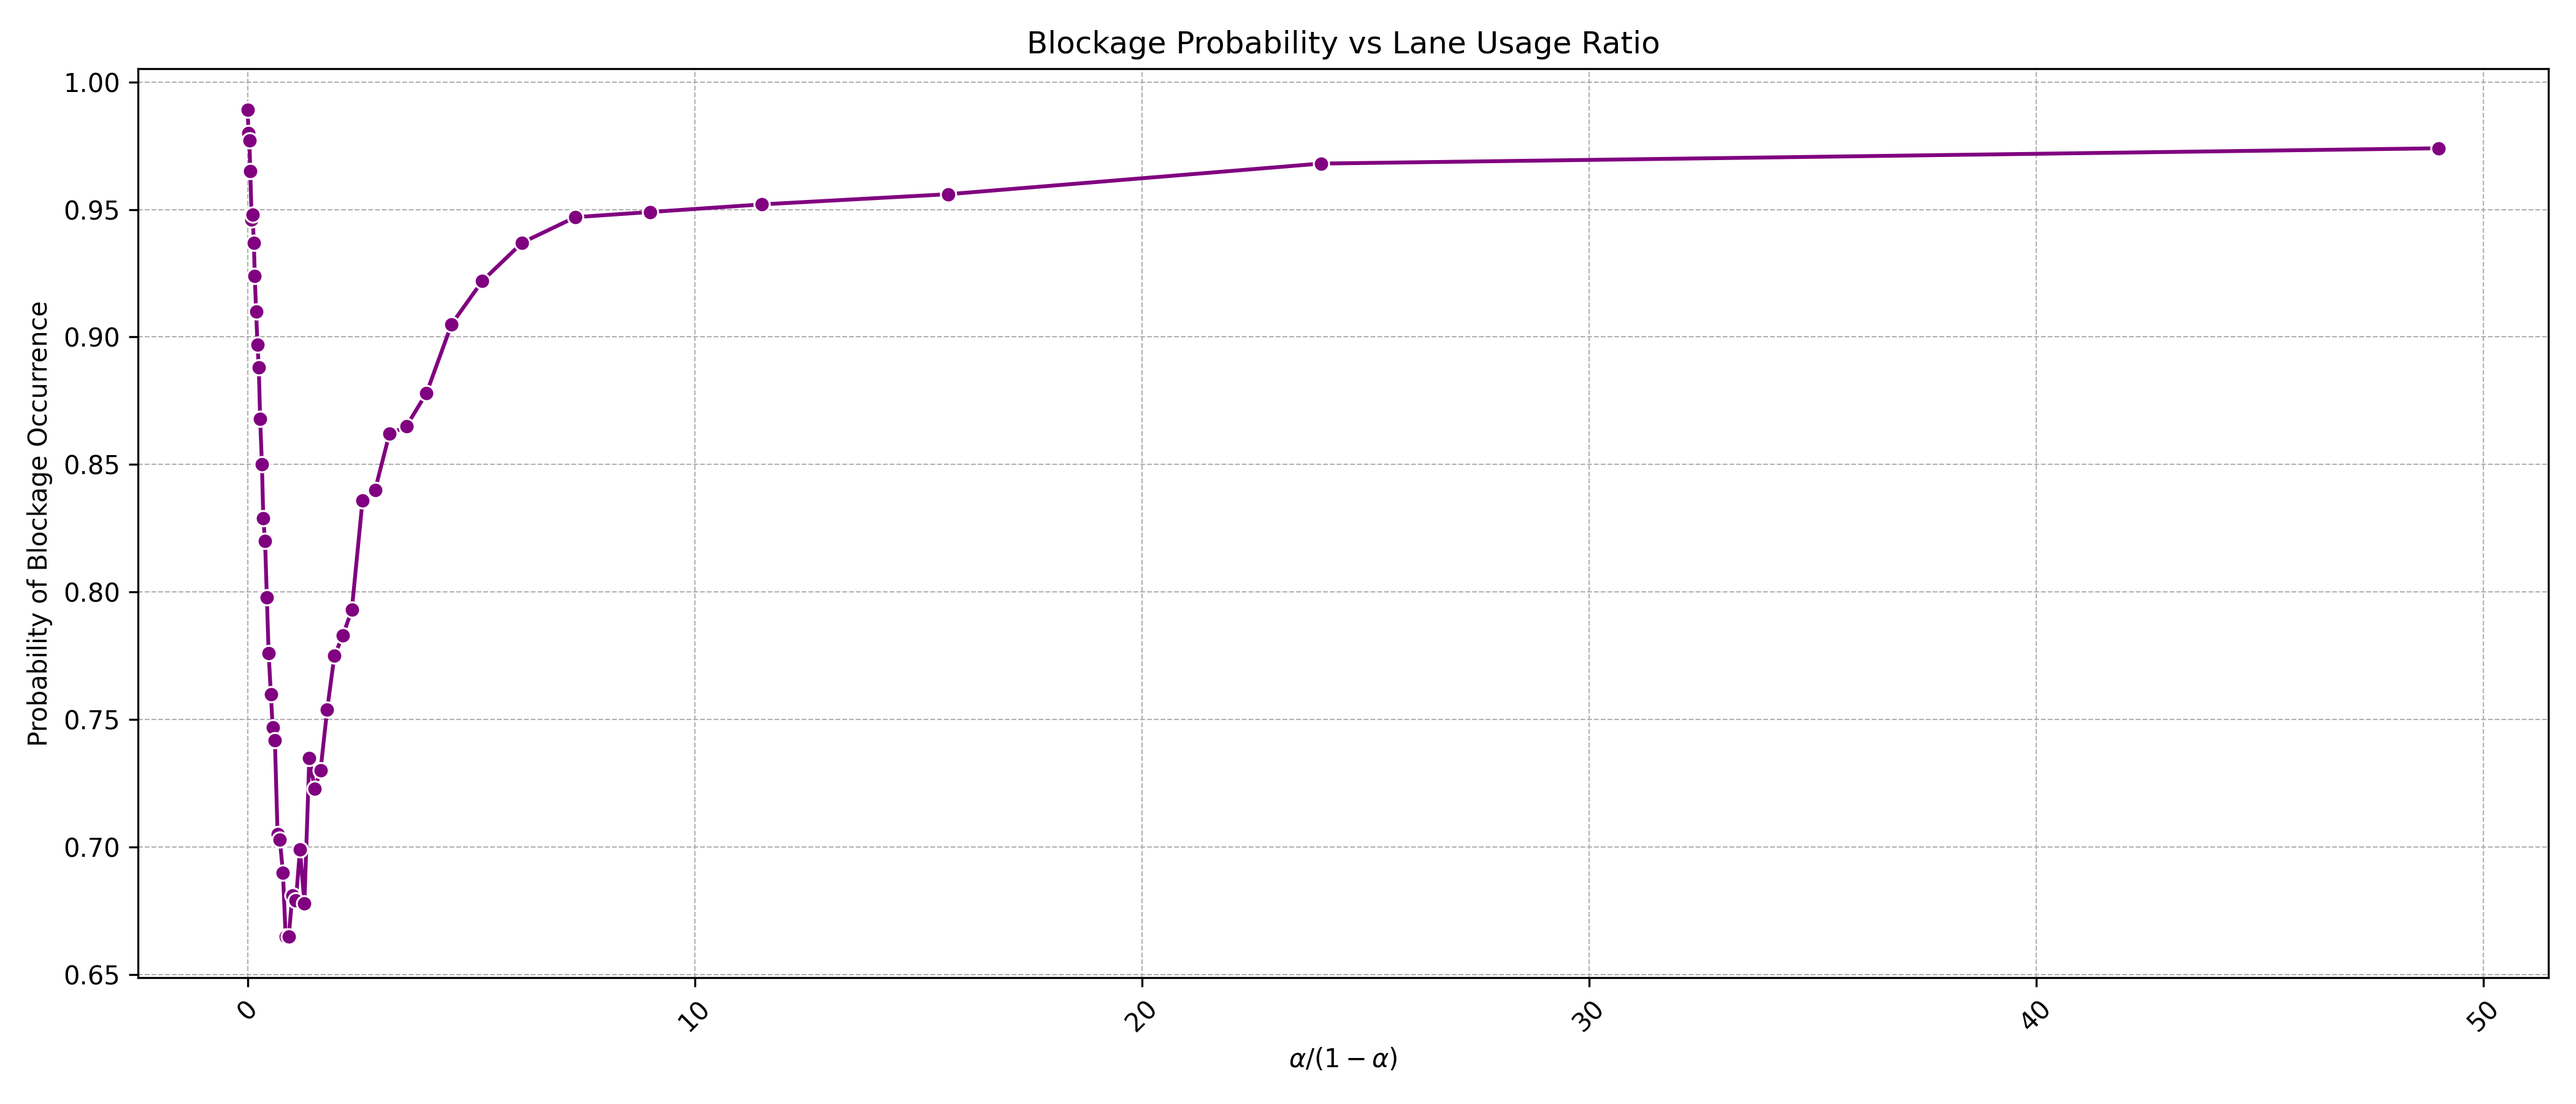
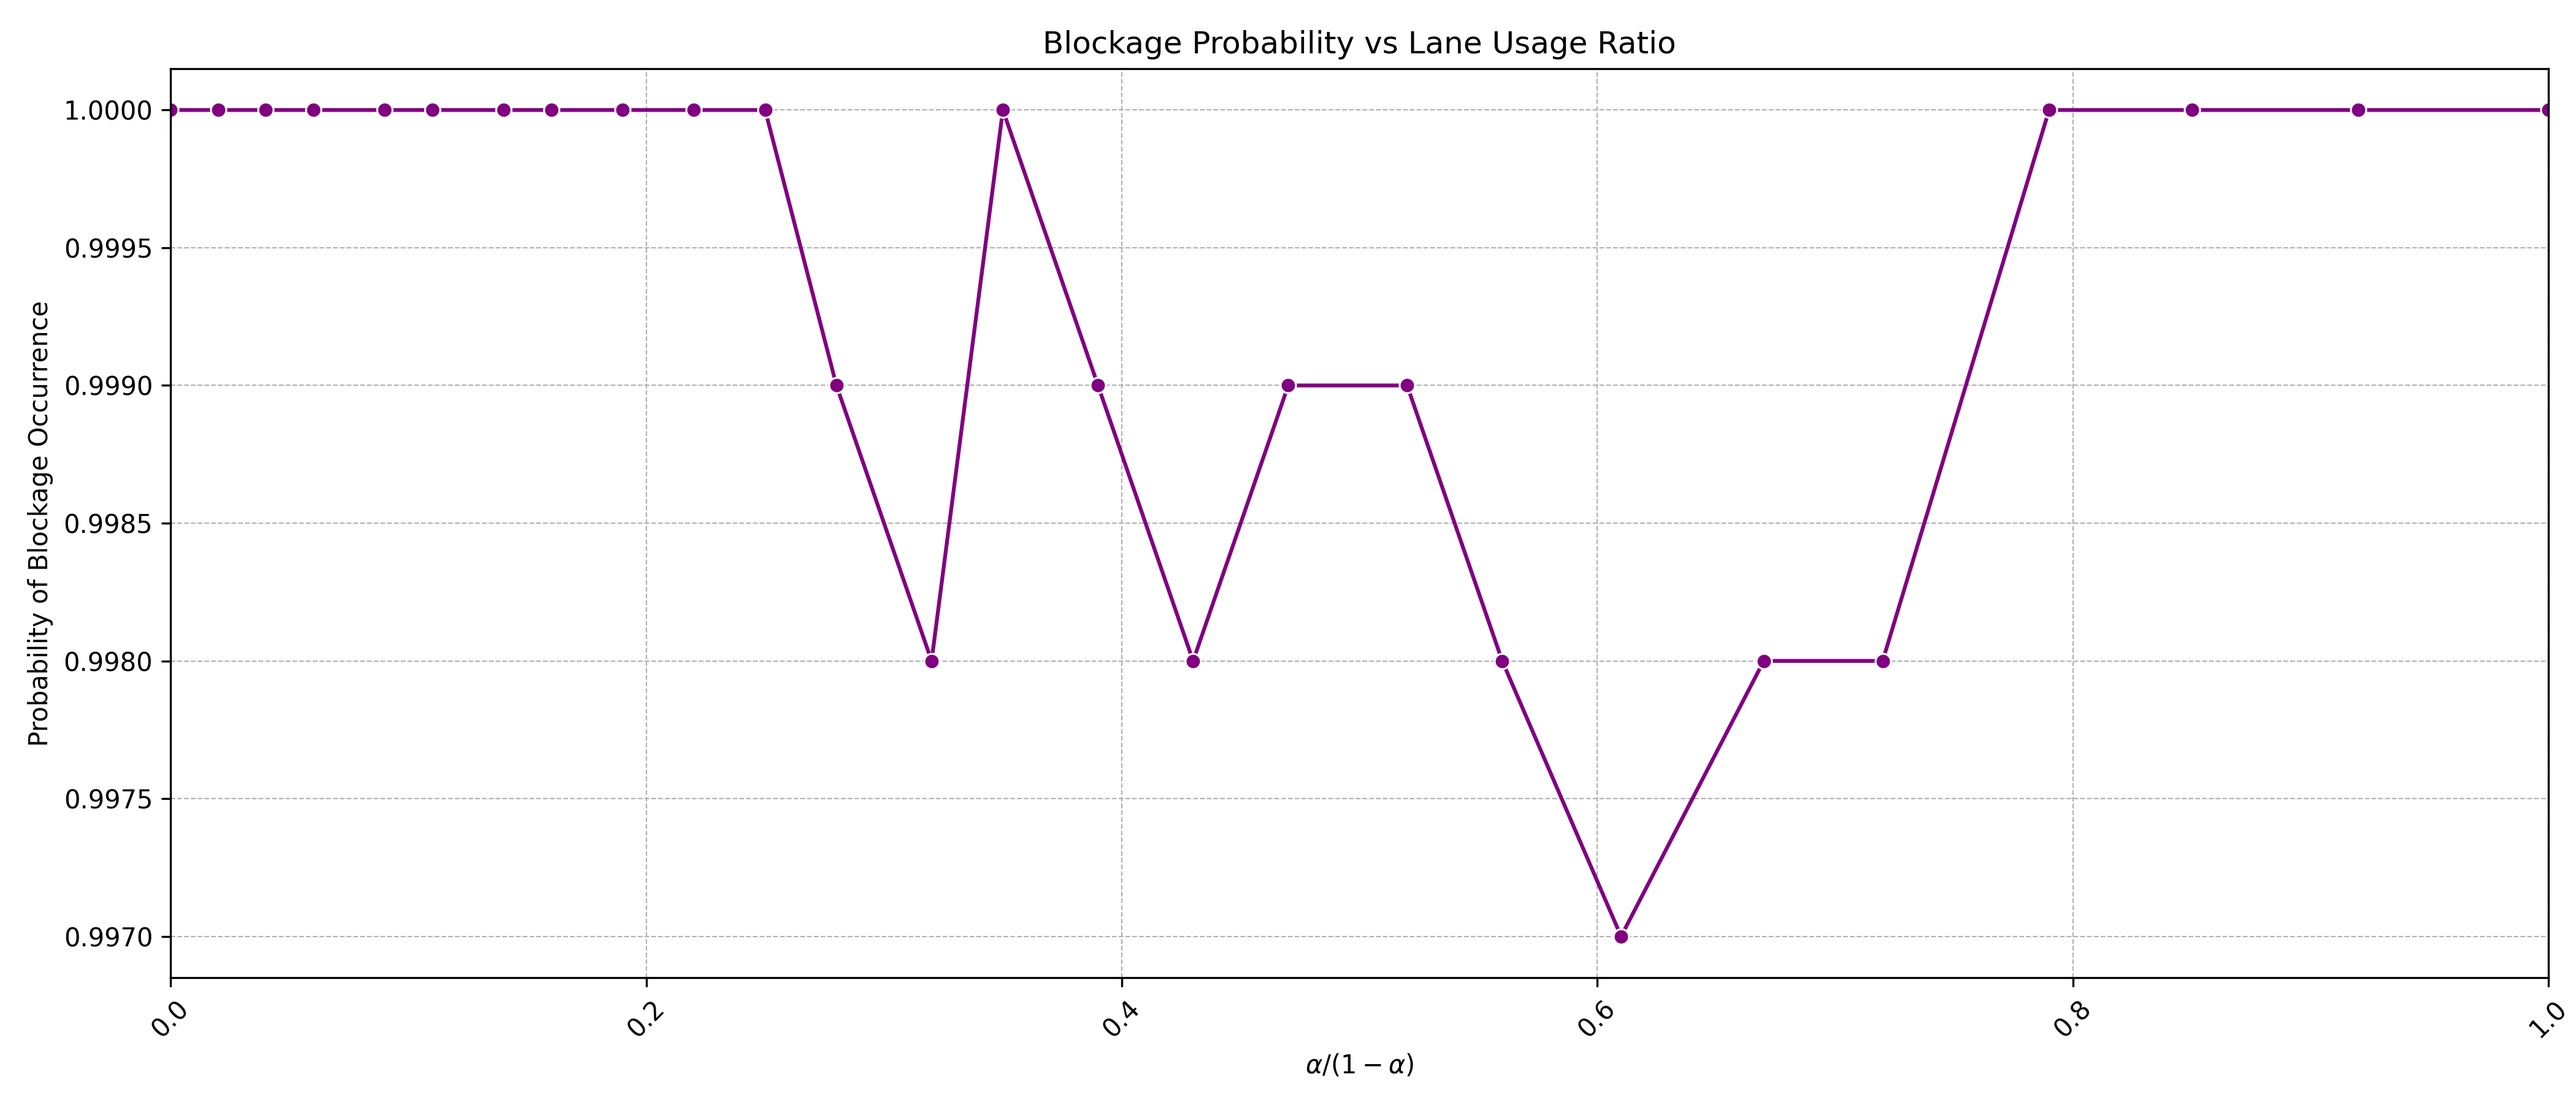
update plots and scripts

diff --git a/simulation-queuing-theory.py b/simulation-queuing-theory.py
@@ -32,7 +32,7 @@ def event_based_simulation(simulations=1000, v=1000, alpha=1/3, N=7, red=36, see
         for t in arrival_times:
             if np.random.rand() < alpha:
                 short_lane_queue += 1
-                if short_lane_queue == N + 1:
+                if short_lane_queue == N:
                     blockage_occurred = True
                     blockage_time = t
                     blocked_lane = 'through'
@@ -40,7 +40,7 @@ def event_based_simulation(simulations=1000, v=1000, alpha=1/3, N=7, red=36, see
                     break
             else:
                 through_lane_queue += 1                
-                if through_lane_queue == N + 1:
+                if through_lane_queue == N:
                     blockage_occurred = True
                     blockage_time = t
                     blocked_lane = 'short'
@@ -70,7 +70,7 @@ def event_based_simulation(simulations=1000, v=1000, alpha=1/3, N=7, red=36, see
                     break
                 else:
                     short_lane_queue += 1
-                    if short_lane_queue == N + 1:
+                    if short_lane_queue == N:
                         blockage_occurred = True
                         blockage_time = next_arrival
                         blocked_lane = 'through'
@@ -83,7 +83,7 @@ def event_based_simulation(simulations=1000, v=1000, alpha=1/3, N=7, red=36, see
                 else:
 
                     through_lane_queue += 1
-                    if through_lane_queue == N + 1:
+                    if through_lane_queue == N:
                         blockage_occurred = True
                         blockage_time = next_arrival
                         blocked_lane = 'short'
@@ -106,7 +106,7 @@ def event_based_simulation(simulations=1000, v=1000, alpha=1/3, N=7, red=36, see
 alphas = np.arange(0, 1.01, 0.02)
 N = 7
 simulation_runs = 1000
-v = 1000
+v = 1800
 red = 36
 
 
@@ -125,7 +125,7 @@ for alpha in alphas:
     x_labels.append(f"{ratio:.2f}")
     x_positions.extend([base_pos - offset, base_pos + offset])
 
-    df = event_based_simulation(simulations=simulation_runs, v=v, alpha=alpha, N=N, red=red)
+    df = event_based_simulation(simulations=simulation_runs, v=v, alpha=alpha, N=N, red=red, seed=42)
     df = df[df["BlockageOccurred"]]
 
     blue_data_flat.append([row["QueueInBlockedLane"] / N for _, row in df.iterrows() if row["BlockedLane"] == "short"])
@@ -313,6 +313,7 @@ plt.xlabel(r"$\alpha / (1 - \alpha)$")
 plt.ylabel("Queue in Blocked Lane / N")
 plt.grid(True, linestyle="--", linewidth=0.5)
 plt.xticks(rotation=45)
+plt.xlim(0, 1)
 plt.legend()
 plt.tight_layout()
 plt.savefig('scatter.png', dpi=300)
@@ -339,6 +340,7 @@ plt.ylabel("Probability of Blockage Occurrence")
 plt.xticks(rotation=45)
 plt.grid(True, linestyle="--", linewidth=0.5)
 plt.tight_layout()
+plt.xlim(0, 1)
 plt.savefig('blockage_probability.png', dpi=300)
 plt.show()
 
@@ -392,7 +394,7 @@ for idx, N in enumerate(Ns):
         ax.set_xlabel(r"$\alpha / (1 - \alpha)$")
     if idx == 0:
         ax.legend()
-plt.xlim(0, 20)
+plt.xlim(0, 10)
 plt.tight_layout()
 plt.savefig("separate_mean_lines_by_N.png", dpi=300)
 plt.show()

diff --git a/Vissim Simulation/Plots.py b/Vissim Simulation/Plots.py
@@ -1,0 +1,49 @@
+import pandas as pd
+import matplotlib.pyplot as plt
+import matplotlib.font_manager as fm
+
+# Load the simulation data and group by cycle for the \"Bottleneck\" values.
+df_sim = pd.read_excel('Validation-SimulationVsTheory.xlsx')
+cycles_sim = sorted(df_sim['cycle'].unique())
+data = [df_sim[df_sim['cycle'] == cycle]['Bottleneck'].values for cycle in cycles_sim]
+
+# Load the capacity data and sort by cycle.
+df_capacity = pd.read_excel('TheoryCapacity.xlsx')
+df_capacity = df_capacity[df_capacity['cycle'] > 19]
+df_capacity_sorted = df_capacity.sort_values('cycle')
+
+
+plt.figure(figsize=(12, 8))
+
+# Enhanced boxplots
+plt.boxplot(data, positions=cycles_sim, widths=3,
+            patch_artist=True,
+            boxprops=dict(facecolor='#AED6F1', color='#2980B9', linewidth=1.5),
+            medianprops=dict(color='#154360', linewidth=2),
+            whiskerprops=dict(color='#2980B9', linewidth=1.2),
+            capprops=dict(color='#2980B9', linewidth=1.2),
+            flierprops=dict(markerfacecolor='#EC7063', marker='o', markersize=5, linestyle='none'))
+
+# Enhanced theory plot
+plt.plot(df_capacity_sorted['cycle'], df_capacity_sorted['C1'],
+         color='#E74C3C', linewidth=3, linestyle='-', label='Theoretical Capacity')
+
+# Titles and labels
+plt.xlabel('Cycle Length (seconds)', fontsize=18, fontproperties='Times New Roman')
+plt.ylabel('Capacity of Approach with Short Lane (veh/hr)', fontsize=18, fontproperties='Times New Roman')
+# plt.title('Simulation vs. Theoretical Capacity', fontsize=22, fontproperties='Times New Roman', pad=10)
+
+# Legend
+handles = [box["boxes"][0], plt.Line2D([0], [0], color='#E74C3C', linewidth=3)]
+labels = ['Vissim Simulation Results', 'Theoretical Capacity']
+plt.legend(handles, labels, prop='Times New Roman', fontsize=25)
+legend = plt.legend(prop='Times New Roman', fontsize=22)
+plt.setp(legend.get_texts(), fontsize=25)
+
+# Grid and layout
+plt.grid(True, linestyle='--', linewidth=0.5, alpha=0.7)
+plt.xticks(fontsize=18, fontproperties='Times New Roman')
+plt.yticks(fontsize=18, fontproperties='Times New Roman')
+plt.tight_layout()
+
+plt.show()
